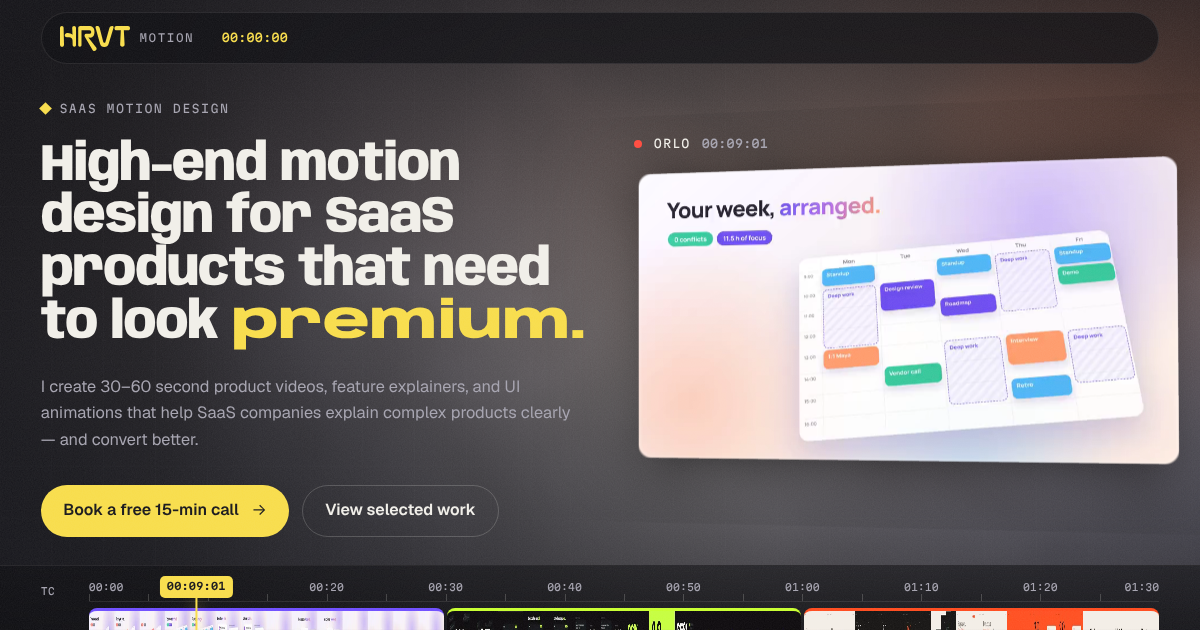
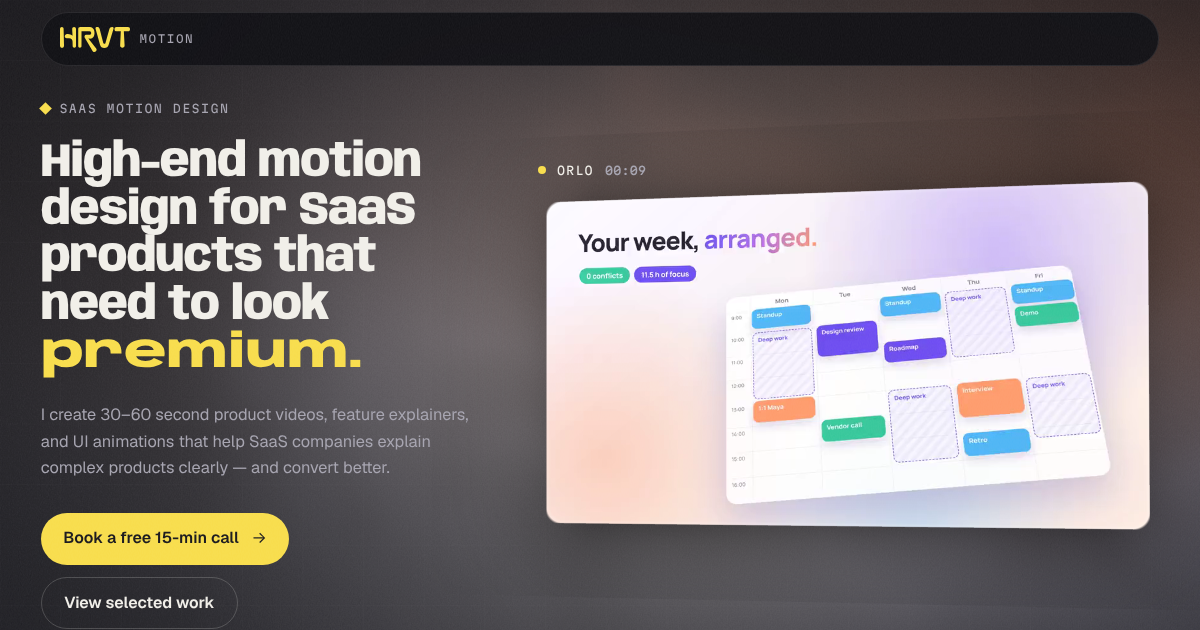
Motion oldal: design loop 2–3. kör javításai
Claude-Session: https://claude.ai/code/session_01VdjVJekSgJN5NPM9qWpNCb

diff --git a/src/app/(main)/motion.css b/src/app/(main)/motion.css
@@ -18,7 +18,7 @@
 .mo .kw { display:inline-block; white-space:nowrap; vertical-align:top; }
 .mo .kwi { display:inline-block; --wd:1; font-variation-settings:"wdth" calc(var(--w0) + (var(--w1) - var(--w0)) * var(--wd)), "wght" var(--g); }
 .mo .kw.m .kwi { --wd:1 !important; }
-.mo .h1 { font-size:clamp(2.25rem,4.3vw,4.5rem); line-height:1.02; letter-spacing:-.025em; margin:0 0 1.5rem; font-weight:800; }
+.mo .h1 { font-size:clamp(2.2rem,3.9vw,4.2rem); line-height:1.02; letter-spacing:-.025em; margin:0 0 1.5rem; font-weight:800; }
 .mo .h2 { font-size:clamp(2rem,4.4vw,4.2rem); line-height:1.02; letter-spacing:-.025em; margin:0; font-weight:800; max-width:16em; }
 .mo .sec { padding:var(--sec) var(--m); max-width:1500px; margin:0 auto; }
 .mo .sec-head { margin-bottom:clamp(2.5rem,5vw,4.5rem); }
@@ -50,7 +50,7 @@
 .mo .hero { position:relative; min-height:100svh; display:grid; grid-template-rows:1fr auto; isolation:isolate; }
 .mo .hero-gl { position:absolute; inset:0; width:100%; height:100%; z-index:-1; }
 .mo .hero-src { position:absolute; width:2px; height:2px; opacity:0; pointer-events:none; }
-.mo .hero-in { display:grid; grid-template-columns:minmax(0,1.04fr) minmax(0,1fr); gap:clamp(1.5rem,4vw,4.5rem); align-items:center; padding:96px calc(var(--m) + 2.2vw) 28px var(--m); max-width:1640px; width:100%; margin:0 auto; }
+.mo .hero-in { display:grid; grid-template-columns:minmax(0,.86fr) minmax(0,1.14fr); gap:clamp(1.5rem,4vw,4.5rem); align-items:center; padding:96px calc(var(--m) + 2.2vw) 28px var(--m); max-width:1640px; width:100%; margin:0 auto; }
 .mo .cta-row { display:flex; flex-wrap:wrap; gap:.8rem; margin-top:2rem; }
 .mo .hero-view { position:relative; }
 .mo .slot { aspect-ratio:16/9; width:100%; }
@@ -61,7 +61,7 @@
 .mo .rec { width:8px; height:8px; border-radius:50%; background:var(--y); animation:mo-blink 1.4s steps(2) infinite; }
 @keyframes mo-blink { 50% { opacity:.25; } }
 
-.mo .dock { display:grid; grid-template-columns:38px 1fr; gap:10px; padding:14px var(--m) 20px; background:linear-gradient(rgba(12,12,15,.55),rgba(12,12,15,.92)); backdrop-filter:blur(10px); -webkit-backdrop-filter:blur(10px); border-top:1px solid var(--ln); }
+.mo .dock { display:grid; grid-template-columns:38px 1fr; gap:10px; padding:34px var(--m) 30px; background:linear-gradient(rgba(12,12,15,.55),rgba(12,12,15,.92)); backdrop-filter:blur(10px); -webkit-backdrop-filter:blur(10px); border-top:1px solid var(--ln); }
 .mo .dock-side { display:grid; grid-template-rows:22px 62px 30px; gap:6px; font-family:var(--mono); font-size:.62rem; color:var(--mute); align-items:center; }
 .mo .dock-tl { position:relative; display:grid; grid-template-rows:22px 62px 30px; gap:6px; cursor:ew-resize; touch-action:pan-y; user-select:none; -webkit-user-select:none; }
 .mo .ruler { position:relative; border-bottom:1px solid var(--ln); background:repeating-linear-gradient(90deg,var(--ln2) 0 1px,transparent 1px calc(100%/18)) bottom/100% 7px no-repeat; }
@@ -74,10 +74,10 @@
 .mo .trk-a { display:flex; align-items:center; gap:2px; padding:0 2px; border-radius:6px; background:rgba(241,239,233,.04); }
 .mo .trk-a i { flex:1; height:100%; background:var(--mute); opacity:.5; border-radius:1px; }
 .mo .ph { position:absolute; top:0; bottom:0; left:0; width:0; z-index:3; }
-.mo .ph::before { content:""; position:absolute; top:16px; bottom:-6px; left:-1px; width:2px; background:var(--y); box-shadow:0 0 14px rgba(248,221,74,.6); }
-.mo .ph::after { content:""; position:absolute; top:calc(50% + 4px); left:-9px; width:18px; height:30px; border-radius:6px; background:var(--y); box-shadow:0 4px 14px rgba(0,0,0,.5), inset 5px 0 0 -3px rgba(23,22,26,.35), inset -5px 0 0 -3px rgba(23,22,26,.35); animation:mo-nudge 2.4s ease-in-out infinite; }
+.mo .ph::before { content:""; position:absolute; top:-8px; bottom:-6px; left:-1px; width:2px; background:var(--y); box-shadow:0 0 14px rgba(248,221,74,.6); }
+.mo .ph::after { content:""; position:absolute; bottom:-16px; left:-9px; width:18px; height:22px; border-radius:6px; background:var(--y); box-shadow:0 4px 14px rgba(0,0,0,.5), inset 5px 0 0 -3px rgba(23,22,26,.35), inset -5px 0 0 -3px rgba(23,22,26,.35); animation:mo-nudge 2.4s ease-in-out infinite; }
 .mo .hero.touched .ph::after { animation:none; }
-.mo .ph-flag { position:absolute; top:-4px; left:0; transform:translateX(-50%); background:var(--y); color:var(--ink); padding:3px 7px; border-radius:5px; font-size:.64rem !important; white-space:nowrap; font-variation-settings:"wght" 600 !important; transition:transform .3s var(--ease); }
+.mo .ph-flag { position:absolute; top:-27px; left:0; transform:translateX(-50%); background:var(--y); color:var(--ink); padding:3px 7px; border-radius:5px; font-size:.64rem !important; white-space:nowrap; font-variation-settings:"wght" 600 !important; transition:transform .3s var(--ease); }
 .mo .hero.is-scrub .ph-flag { transform:translateX(-50%) scale(1.14); }
 @keyframes mo-nudge { 50% { transform:translateX(7px); } }
 
@@ -87,6 +87,7 @@
 .mo .layer-n { color:var(--mute); }
 .mo .layer-name { font-family:var(--disp); font-variation-settings:"wdth" 96,"wght" 700; font-size:clamp(1.25rem,2.1vw,2rem); line-height:1.1; margin:0; letter-spacing:-.01em; }
 .mo .layer-name small { font-family:var(--font-sans); font-size:.9rem; color:var(--mute); font-weight:400; letter-spacing:0; }
+.mo .layer-bar::after { content:attr(data-l); position:absolute; left:12px; bottom:8px; font:500 .62rem var(--mono); letter-spacing:.08em; text-transform:uppercase; color:var(--mute); }
 .mo .layer-bar { position:relative; height:76px; border-radius:12px; background:var(--p2); border:1px solid var(--ln); overflow:hidden; container-type:inline-size; transform:scaleX(0); transform-origin:left; transition:transform 1.1s var(--ease) calc(var(--i) * 90ms); }
 .mo .layer.in .layer-bar { transform:none; }
 .mo .loop { position:absolute; inset:0; }
@@ -149,7 +150,7 @@
 @keyframes mo-sweep { to { transform:translateX(46vw); } }
 .mo .who.on3 .cur { opacity:1; transform:translate(190%,-250%); } .mo .who.on3 .call { opacity:1; transform:none; transition-delay:.7s; }
 .mo .who.on4 .shot { transform:rotateY(-9deg) rotateX(5deg) translateZ(20px); border-color:rgba(248,221,74,.45); box-shadow:0 40px 90px -30px rgba(248,221,74,.28); --a:var(--y); }
-.mo .who.on4 .tiles i:first-child { background:#2d2b45; } .mo .who.on4 .tiles i:nth-child(2) { background:#253a33; transform:translateY(-4px); } .mo .who.on4 .tiles i:nth-child(3) { background:#45302a; }
+.mo .who.on4 .tiles i:first-child { background:#3a3726; } .mo .who.on4 .tiles i:nth-child(2) { background:var(--p3); border-color:rgba(248,221,74,.5); transform:translateY(-4px); } .mo .who.on4 .tiles i:nth-child(3) { background:#3a3726; }
 .mo .who.on4 .shot-side i:first-child { background:var(--y); }
 .mo .who-list { list-style:none; margin:2.4rem 0 0; padding:0; }
 .mo .who-li { display:grid; grid-template-columns:44px 1fr; gap:.6rem; padding:clamp(1.6rem,4.5vh,3rem) 0; border-top:1px solid var(--ln); font-size:clamp(1.25rem,2vw,1.85rem); line-height:1.25; font-weight:500; color:var(--mute); transition:color .6s; }
@@ -165,7 +166,7 @@
 .mo .work-frame { position:relative; width:min(1240px,100%,(100svh - 300px) * 16 / 9); aspect-ratio:16/9; border-radius:22px; overflow:hidden; box-shadow:0 50px 100px -40px color-mix(in srgb,var(--ink) 55%,transparent), 0 0 0 1px color-mix(in srgb,var(--ink) 14%,transparent); will-change:clip-path,transform; }
 .mo .work-frame video { width:100%; height:100%; object-fit:cover; display:block; background:var(--bg); }
 .mo .work-meta { position:relative; width:min(1240px,100%,(100svh - 300px) * 16 / 9); display:flex; align-items:center; gap:1.4rem; }
-.mo .work-meta .mono { color:var(--ink); opacity:.7; }
+.mo .work-meta .mono { color:var(--ink); }
 .mo .work-meta h3 { margin:0; font-family:var(--disp); font-variation-settings:"wdth" 100,"wght" 800; font-size:clamp(1.3rem,2.2vw,2rem); letter-spacing:-.01em; }
 .mo .work-meta h3 span { font-family:var(--font-sans); font-weight:400; font-size:.62em; letter-spacing:0; opacity:.8; }
 .mo .snd { margin-left:auto; display:inline-flex; align-items:center; gap:.6rem; min-height:46px; padding:0 1.1rem; border-radius:999px; border:1px solid color-mix(in srgb,var(--ink) 35%,transparent); background:none; color:var(--ink); font:600 .92rem var(--font-sans); cursor:pointer; white-space:nowrap; transition:background-color .3s, color .3s, transform .4s var(--ease); }
@@ -186,11 +187,11 @@
 .mo .pdot { position:absolute; width:26px; height:26px; margin:-13px 0 0 -13px; border-radius:50%; background:rgba(248,221,74,.22); display:grid; place-items:center; }
 .mo .pdot::after { content:""; width:10px; height:10px; border-radius:50%; background:var(--paper); }
 .mo .steps { list-style:none; margin:0; padding:1.4rem 0 0; display:grid; grid-template-columns:repeat(4,1fr); gap:1.4rem; }
-.mo .step { padding:0 .4rem; text-align:center; opacity:.6; transform:translateY(10px); transition:opacity .6s, transform .8s var(--ease); }
-.mo .step.on { opacity:1; transform:none; }
+.mo .step { padding:0 .4rem; text-align:center; opacity:.72; transition:opacity .6s; }
+.mo .step.on { opacity:1; }
 .mo .step .mono { color:var(--y); text-transform:uppercase; letter-spacing:.1em; }
 .mo .step h3 { font-family:var(--disp); font-variation-settings:"wdth" 96,"wght" 750; font-size:clamp(1.15rem,1.7vw,1.55rem); margin:.7rem 0 .5rem; line-height:1.12; }
-.mo .step p { margin:0 auto; color:var(--mute); line-height:1.55; max-width:19em; }
+.mo .step p { margin:0 auto; color:#bdbbc6; line-height:1.55; max-width:19em; }
 .mo .turn { margin:clamp(2.5rem,5vw,4rem) 0 0; display:flex; flex-wrap:wrap; align-items:center; gap:.5rem 1rem; padding:1.1rem 1.4rem; border-radius:14px; background:var(--p1); border:1px solid var(--ln); font-size:1.08rem; color:var(--mute); position:relative; overflow:hidden; }
 .mo .turn::before { content:""; position:absolute; inset:0; background:rgba(248,221,74,.09); transform:scaleX(0); transform-origin:left; transition:transform 1.6s var(--ease) .2s; }
 .mo .turn.in::before { transform:none; }
@@ -219,12 +220,13 @@
 .mo .price:nth-of-type(2) .price-clip i { background:var(--y); }
 .mo .price:nth-of-type(3) .price-clip i { background:none; border:1.5px solid var(--y); background-image:repeating-linear-gradient(135deg,rgba(248,221,74,.16) 0 6px,transparent 6px 12px); }
 .mo .price:hover .price-clip i { transform:translateY(-4px); }
-.mo .price-txt { display:flex; flex-wrap:wrap; align-items:baseline; justify-content:space-between; gap:.4rem 2rem; margin-top:1.1rem; }
+.mo .price-txt { background:var(--bg); padding:.3rem 0; display:flex; flex-wrap:wrap; align-items:baseline; justify-content:space-between; gap:.4rem 2rem; margin-top:.8rem; position:relative; }
 .mo .price-txt h3 { margin:0; font-size:clamp(1.1rem,1.6vw,1.4rem); font-weight:600; }
 .mo .price-txt small { font-weight:400; color:var(--mute); font-size:.85em; }
 .mo .price-txt p { margin:0; color:var(--mute); font-size:1rem; white-space:nowrap; }
 .mo .price-txt b { font-family:var(--disp); font-variation-settings:"wdth" 118,"wght" 850; font-size:clamp(2rem,3.6vw,3.4rem); color:var(--paper); letter-spacing:-.02em; margin-left:.3rem; }
-.mo .price-note { margin:2.2rem 0 0; color:var(--mute); font-size:1.08rem; line-height:1.6; max-width:38em; } .mo .price-note b { color:var(--paper); font-weight:600; }
+.mo .price-turn { margin:2.2rem 0 0; font-size:1.08rem; } .mo .price-turn b { color:var(--y); font-weight:600; }
+.mo .price-note { margin:1rem 0 0; color:var(--mute); font-size:1.08rem; line-height:1.6; max-width:38em; } .mo .price-note b { color:var(--paper); font-weight:600; }
 
 /* ---------- 08 faq ---------- */
 .mo .marks { position:relative; display:grid; grid-template-columns:repeat(5,1fr); gap:10px; padding-top:22px; }
@@ -236,7 +238,7 @@
 .mo .mark[aria-selected="true"] { background:var(--y); border-color:var(--y); color:var(--ink); }
 .mo .mark[aria-selected="true"] i { background:var(--y); transform:scale(1.35); }
 .mo .note { margin-top:14px; padding:clamp(1.6rem,4vw,3.2rem); border-radius:18px; background:var(--p1); border:1px solid var(--ln); animation:mo-note .6s var(--ease); }
-.mo .note[hidden] { display:none; }
+.mo .note:not(.on) { display:none; }
 @keyframes mo-note { from { opacity:0; transform:translateY(14px); } }
 .mo .note .mono { color:var(--y); text-transform:uppercase; letter-spacing:.1em; }
 .mo .note h3 { font-family:var(--disp); font-variation-settings:"wdth" 96,"wght" 780; font-size:clamp(1.5rem,3vw,2.6rem); line-height:1.08; margin:1rem 0; letter-spacing:-.015em; }
@@ -245,7 +247,7 @@
 /* ---------- 09 end + footer ---------- */
 .mo .end { text-align:center; display:grid; justify-items:center; gap:1.4rem; padding-top:calc(var(--sec) * 1.1); border-top:1px solid var(--ln); max-width:none; background:radial-gradient(60% 55% at 50% 100%,rgba(248,221,74,.13),transparent 70%); }
 .mo .end .tag { margin:0; }
-.mo .h-end { font-size:clamp(2.3rem,7vw,7rem); line-height:.98; letter-spacing:-.03em; margin:0; max-width:13em; font-weight:800; }
+.mo .h-end { font-size:clamp(2.3rem,5.6vw,5.6rem); line-height:.98; letter-spacing:-.03em; margin:0; max-width:13em; font-weight:800; }
 .mo .end .lede { margin-bottom:.8rem; }
 .mo .end-mail { margin:.4rem 0 0; color:var(--mute); line-height:2; } .mo .end-mail a { white-space:nowrap; color:var(--paper); border-bottom:1px solid var(--ln2); padding:.5rem 0; transition:border-color .3s, color .3s; } .mo .end-mail a:hover { color:var(--y); border-color:var(--y); }
 .mo .foot { display:flex; flex-wrap:wrap; align-items:center; gap:.8rem 2.4rem; padding:2rem var(--m) 2.4rem; border-top:1px solid var(--ln); color:var(--mute); font-size:.95rem; }
@@ -255,11 +257,11 @@
 /* ---------- page scrubber ---------- */
 .mo .scrub { position:fixed; z-index:55; left:var(--m); right:var(--m); bottom:12px; display:flex; align-items:center; gap:8px; padding:6px; border-radius:16px; background:rgba(14,14,18,.97); backdrop-filter:blur(14px); -webkit-backdrop-filter:blur(14px); border:1px solid var(--ln); transform:translateY(140%); transition:transform .7s var(--ease); --sp:0; }
 .mo .scrub.on { transform:none; }
-.mo .scrub-tl { position:relative; flex:1; display:flex; gap:3px; height:44px; }
+.mo .scrub-tl { position:relative; flex:1; display:flex; gap:3px; height:48px; }
 .mo .scrub-tl a { flex:1; display:flex; align-items:center; padding:0 .7rem; border-radius:9px; background:var(--p2); font-family:var(--mono); font-size:.66rem; text-transform:uppercase; letter-spacing:.08em; color:var(--mute); overflow:hidden; transition:background-color .3s, color .3s; }
 .mo .scrub-tl a:hover { background:var(--p3); color:var(--paper); } .mo .scrub-tl a.now { color:var(--paper); background:var(--p3); }
 .mo .scrub-ph { position:absolute; top:-3px; bottom:-3px; left:calc(var(--sp) * 100%); width:2px; background:var(--y); box-shadow:0 0 10px rgba(248,221,74,.7); pointer-events:none; }
-.mo .scrub-cta, .mo .scrub-wa { display:inline-flex; align-items:center; justify-content:center; height:44px; padding:0 1.1rem; border-radius:11px; font-weight:600; font-size:.9rem; white-space:nowrap; transition:transform .4s var(--ease), background-color .3s; }
+.mo .scrub-cta, .mo .scrub-wa { display:inline-flex; align-items:center; justify-content:center; height:48px; padding:0 1.2rem; border-radius:999px; font-weight:600; font-size:.9rem; white-space:nowrap; transition:transform .4s var(--ease), background-color .3s; }
 .mo .scrub-cta { background:var(--y); color:var(--ink); } .mo .scrub-wa { border:1px solid var(--ln2); }
 .mo .scrub-cta:hover { transform:translateY(-2px); } .mo .scrub-wa:hover { background:rgba(241,239,233,.08); } .mo .scrub-cta:active, .mo .scrub-wa:active { transform:scale(.97); }
 
@@ -276,7 +278,7 @@
   .mo .get li b { top:.35em; left:calc(-1.8rem - 5.5px); }
   .mo .who { grid-template-columns:1fr; gap:0; } .mo .who-stage { top:64px; z-index:3; background:var(--bg); padding:10px 0 14px; margin:0 calc(var(--m) * -1); padding-inline:var(--m); }
   .mo .who-copy { padding-top:1.5rem; } .mo .who.on3 .cur { transform:translate(150%,-210%); }
-  .mo .work { min-height:0; padding:4.5rem var(--m); } .mo .work-frame, .mo .work-meta { width:100%; } .mo .work-frame { border-radius:14px; } .mo .work-name { font-size:38vw; top:42%; }
+  .mo .work { min-height:0; padding:4.5rem var(--m); } .mo .work-meta { width:100%; } .mo .work-frame { width:calc(100% + var(--m) * 2); border-radius:0; box-shadow:none; } .mo .work-name { font-size:38vw; top:42%; }
   .mo .work-meta { flex-wrap:wrap; gap:.6rem 1rem; } .mo .work-meta h3 { flex:1 1 100%; order:2; } .mo .work-meta .mono { order:1; } .mo .snd { order:3; margin-left:0; }
   .mo .graph, .mo .kfs, .mo .pdot { display:none; }
   .mo .steps { grid-template-columns:1fr; padding:0 0 0 2.2rem; gap:2.2rem; position:relative; }
@@ -288,10 +290,11 @@
   .mo .job { grid-template-columns:30px 1fr; } .mo .job-pct { grid-column:2; text-align:left; }
   .mo .price-txt p { white-space:normal; }
   .mo .marks { display:none; }
-  .mo .faq { position:relative; } .mo .note, .mo .note[hidden] { display:block; animation:none; position:relative; margin:0 0 12px 26px; padding:1.3rem 1.2rem; }
+  .mo .faq { position:relative; } .mo .note, .mo .note:not(.on) { display:block; animation:none; position:relative; margin:0 0 12px 26px; padding:1.3rem 1.2rem; }
   .mo .note::before { content:""; position:absolute; left:-26px; top:1.5rem; width:14px; height:16px; background:var(--y); clip-path:polygon(0 0,100% 0,100% 62%,50% 100%,0 62%); transform:rotate(-90deg); }
   .mo .note::after { content:""; position:absolute; left:-20px; top:-12px; bottom:0; width:1px; background:var(--ln2); z-index:-1; }
   .mo .note h3 { font-size:1.3rem; margin:.6rem 0; }
+  .mo .end-mail { display:grid; } .mo .end-sep { display:none; }
   .mo .end .btn-big { width:100%; justify-content:center; font-size:1rem; padding:0 1rem; }
   .mo .foot-links { margin-left:0 !important; }
   .mo .scrub { padding:12px 5px 5px; border-radius:14px; } .mo .scrub-tl { position:absolute; left:8px; right:8px; top:5px; height:3px; flex:none; background:var(--p3); border-radius:2px; } .mo .scrub-tl a { display:none; }

diff --git a/src/components/motion/Site.tsx b/src/components/motion/Site.tsx
@@ -124,7 +124,7 @@ export function Site() {
 
     // pricing: a playhead follows the cursor across the three clips
     const pt = el.querySelector<HTMLElement>(".price-tl")!, ptc = pt.querySelector<HTMLElement>(".price-ph span")!;
-    const pm = (e: PointerEvent) => { const r = pt.getBoundingClientRect(), x = Math.max(0, Math.min(1, (e.clientX - r.left) / r.width)); pt.style.setProperty("--mx", x.toFixed(4)); ptc.textContent = tc(x * 60).slice(0, 5); };
+    const pm = (e: PointerEvent) => { const r = pt.getBoundingClientRect(), x = Math.max(0, Math.min(1, (e.clientX - r.left) / r.width)); pt.style.setProperty("--mx", x.toFixed(4)); ptc.textContent = tc(x * 60); };
     pt.addEventListener("pointermove", pm);
 
     return () => { off(); ctx?.revert(); vio.disconnect(); removeEventListener("resize", onResize); pt.removeEventListener("pointermove", pm); };
@@ -143,7 +143,7 @@ export function Site() {
         <div className="nav-links">
           <a href="#work">Work</a><a href="#services">Services</a><a href="#process">Process</a><a href="#pricing">Pricing</a><a href="#faq">FAQ</a>
         </div>
-        <span className="nav-tc mono" aria-hidden>00:00:00</span>
+        <span className="nav-tc mono" aria-hidden>00:00</span>
         <a href={CALL} className="nav-cta" data-track="call_nav">Book a call</a>
       </nav>
 
@@ -161,7 +161,7 @@ export function Site() {
               <li className="layer" key={s.k} data-in style={{ ["--i" as string]: i }}>
                 <span className="layer-n mono">L{i + 1}</span>
                 <h3 className="layer-name">{s.name}{"note" in s && <small> ({s.note})</small>}</h3>
-                <div className="layer-bar" aria-hidden><div className={`loop loop-${s.k}`}><i /><i /><i /><i /></div></div>
+                <div className="layer-bar" aria-hidden data-l={["problem → solution → result", "one interaction, in focus", "the launch moment", "16:9 → 1:1 → 9:16"][i]}><div className={`loop loop-${s.k}`}><i /><i /><i /><i /></div></div>
               </li>
             ))}
           </ol>
@@ -262,6 +262,7 @@ export function Site() {
               </article>
             ))}
           </div>
+          <p className="price-turn" data-fade><b>Typical turnaround: 10–18 days</b> depending on complexity.</p>
           <p className="price-note" data-fade>Final price depends on complexity, number of scenes, and revision rounds. <b>Every project starts with a clear fixed quote.</b></p>
         </section>
 
@@ -277,7 +278,7 @@ export function Site() {
             ))}
           </div>
           {FAQ.map(([q, a], i) => (
-            <div key={q} role="tabpanel" id={`fa${i}`} aria-labelledby={`fq${i}`} hidden={faq !== i} className="note">
+            <div key={q} role="tabpanel" id={`fa${i}`} aria-labelledby={`fq${i}`} className={`note${faq === i ? " on" : ""}`}>
               <span className="mono">Marker {i + 1} of {FAQ.length}</span><h3>{q}</h3><p>{a}</p>
             </div>
           ))}
@@ -290,7 +291,7 @@ export function Site() {
           <p className="lede">Let’s create a video that clearly shows what your product does — and why it matters.</p>
           <a className="btn btn-main btn-big" href={DISCOVERY} data-track="call_end"><span>Book a free discovery call</span><b aria-hidden>→</b></a>
           <a className="btn btn-ghost btn-big" href={WHATSAPP} target="_blank" rel="noopener" data-track="whatsapp"><span>Message me on WhatsApp</span></a>
-          <p className="end-mail">Or email me at <a href={`mailto:${EMAIL}`} data-track="email">{EMAIL}</a> · <a href={`tel:${PHONE_TEL}`} data-track="call_phone">{PHONE}</a></p>
+          <p className="end-mail">Or email me at <a href={`mailto:${EMAIL}`} data-track="email">{EMAIL}</a><span className="end-sep"> · </span><a href={`tel:${PHONE_TEL}`} data-track="call_phone">{PHONE}</a></p>
         </section>
       </main>
 

diff --git a/src/components/motion/Hero.tsx b/src/components/motion/Hero.tsx
@@ -92,7 +92,7 @@ export function Hero() {
         uniforms: { uTex: tex, uSize: { value: size }, uR: { value: 0.42 }, uMode: { value: mode }, uA: { value: a }, uCol: { value: new Color(col) } } }));
       m.position.z = z; m.scale.setScalar(s); m.renderOrder = mode === 0 ? 5 : 1; rig.add(m); return m;
     };
-    const glow = card(2, 0x000000, 0.55, -0.12, 1.5), g2 = card(1, 0xf8dd4a, 0.5, -1.1, 1), g1 = card(1, 0xf1efe9, 0.55, -0.55, 1), screen = card(0, 0, 1, 0, 1);
+    const glow = card(2, 0x000000, 0.55, -0.12, 1.5), g2 = card(1, 0xf8dd4a, mobile ? 0 : 0.5, -1.1, 1), g1 = card(1, 0xf1efe9, mobile ? 0 : 0.55, -0.55, 1), screen = card(0, 0, 1, 0, 1);
 
     // Layout: the monitor sits exactly where the DOM slot is, whatever the breakpoint.
     let W = 1, H = 1, base = 1, bx = 0, by = 0;
@@ -179,14 +179,14 @@ export function Hero() {
           </div>
         </div>
         <div className="hero-view">
-          <div className="hud"><b className="rec" aria-hidden /><span ref={hud}>Orlo</span><span ref={hudT} className="mono">00:00:00</span></div>
+          <div className="hud"><b className="rec" aria-hidden /><span ref={hud}>Orlo</span><span ref={hudT} className="mono">00:00</span></div>
           <div className="slot" ref={slot}><img src="/motion/reel.webp" alt="Frame from the Orlo product video" width={960} height={540} /></div>
         </div>
       </div>
       <div className="dock">
         <div className="dock-side" aria-hidden><span>TC</span><span>V1</span><span>A1</span></div>
         <div className="dock-tl" ref={dock}>
-          <div className="ruler" aria-hidden>{Array.from({ length: 10 }, (_, i) => <span key={i} style={{ left: `${(i / 9) * 100}%` }}>{tc(i * 10).slice(0, 5)}</span>)}</div>
+          <div className="ruler" aria-hidden>{Array.from({ length: 10 }, (_, i) => <span key={i} style={{ left: `${(i / 9) * 100}%` }}>{tc(i * 10)}</span>)}</div>
           <div className="trk trk-v">
             {WORK.map((w) => (
               <div key={w.id} className="clip" style={{ ["--c" as string]: w.acc, backgroundImage: `url(/motion/${w.id}-strip.webp)` }}><span>{w.name}</span><i>{w.len}</i></div>
@@ -196,7 +196,7 @@ export function Hero() {
             {Array.from({ length: 150 }, (_, i) => { const a = 0.18 + 0.82 * Math.abs(Math.sin(i * 0.37) * Math.sin(i * 0.11 + 1) * Math.cos(i * 0.05)); return <i key={i} style={{ transform: `scaleY(${a.toFixed(2)})` }} />; })}
           </div>
           <div className="ph" ref={ph} role="slider" tabIndex={0} aria-label="Scrub the reel" aria-valuemin={0} aria-valuemax={TOTAL} aria-valuenow={0}>
-            <span className="ph-flag mono" ref={flag}>00:00:00</span>
+            <span className="ph-flag mono" ref={flag}>00:00</span>
           </div>
         </div>
       </div>

diff --git a/src/components/motion/data.ts b/src/components/motion/data.ts
@@ -68,6 +68,6 @@ export const SECTIONS = [
 ] as const;
 
 export const tc = (s: number) => {
-  const f = Math.floor((s % 1) * 30), ss = Math.floor(s) % 60, m = Math.floor(s / 60);
-  return `${String(m).padStart(2, "0")}:${String(ss).padStart(2, "0")}:${String(f).padStart(2, "0")}`;
+  const ss = Math.floor(s) % 60, m = Math.floor(s / 60);
+  return `${String(m).padStart(2, "0")}:${String(ss).padStart(2, "0")}`;
 };

diff --git a/progress-motion.md b/progress-motion.md
@@ -1,11 +1,11 @@
 # Design loop — motion oldal
 | Piece | Brief | System | Craft | Round |
 |---|---|---|---|---|
-| Desktop hero | FAIL | FAIL | FAIL | 1 (javítva, 2. kör nem futott) |
-| Desktop szekciók + CTA | FAIL | FAIL | FAIL | 1 (javítva, 2. kör nem futott) |
-| Mobil | FAIL | FAIL | FAIL | 1 (javítva, 2. kör nem futott) |
+| Desktop hero | PASS | FAIL | FAIL | 3 |
+| Desktop szekciók + CTA | PASS | FAIL | FAIL | 3 |
+| Mobil | PASS | FAIL | FAIL | 3 |
 
 ## Gap history
-- Hero r1: "drag the playhead" felirat (az oldal magyarázza magát); a monitor kilóg a jobb margón; piros REC + színes klipszegély = több akcentus; két eltérő időkód.
-- Szekciók r1: árazás címe ellentmond az áraknak, üres fehér sáv; átlátszó nav alatt szellemszöveg; munkák felirata a sáv alatt; üres képernyők; %-ok a renderlistán.
-- Mobil r1: hero ghost keretek ütköznek a gombbal/felirattal; GYIK kérdései M1–M5 mögé rejtve; 38px-es nav gomb; folyamatjelző vonal áthúzza a szöveget.
+- r1: "drag the playhead" felirat; monitor kilóg; több akcentus; átlátszó nav; árazás címe ellentmond; mobil GYIK rejtve.
+- r2: mobil GYIK csak 1 kérdés (Tailwind hidden !important); árazás rácsvonalai a szövegen; színes csempék a mockban; halvány folyamat-lépések.
+- r3 (utána javítva: időkód mm:ss, fogantyú a klipcímke alól, záró cím kisebb, munka-számláló kontraszt): munkavideók súlya mobilon; renderlista "Rendering" állapota; fit és why ugyanaz a lista-minta; GYIK mint kártyasor; több CTA egy képernyőn.
